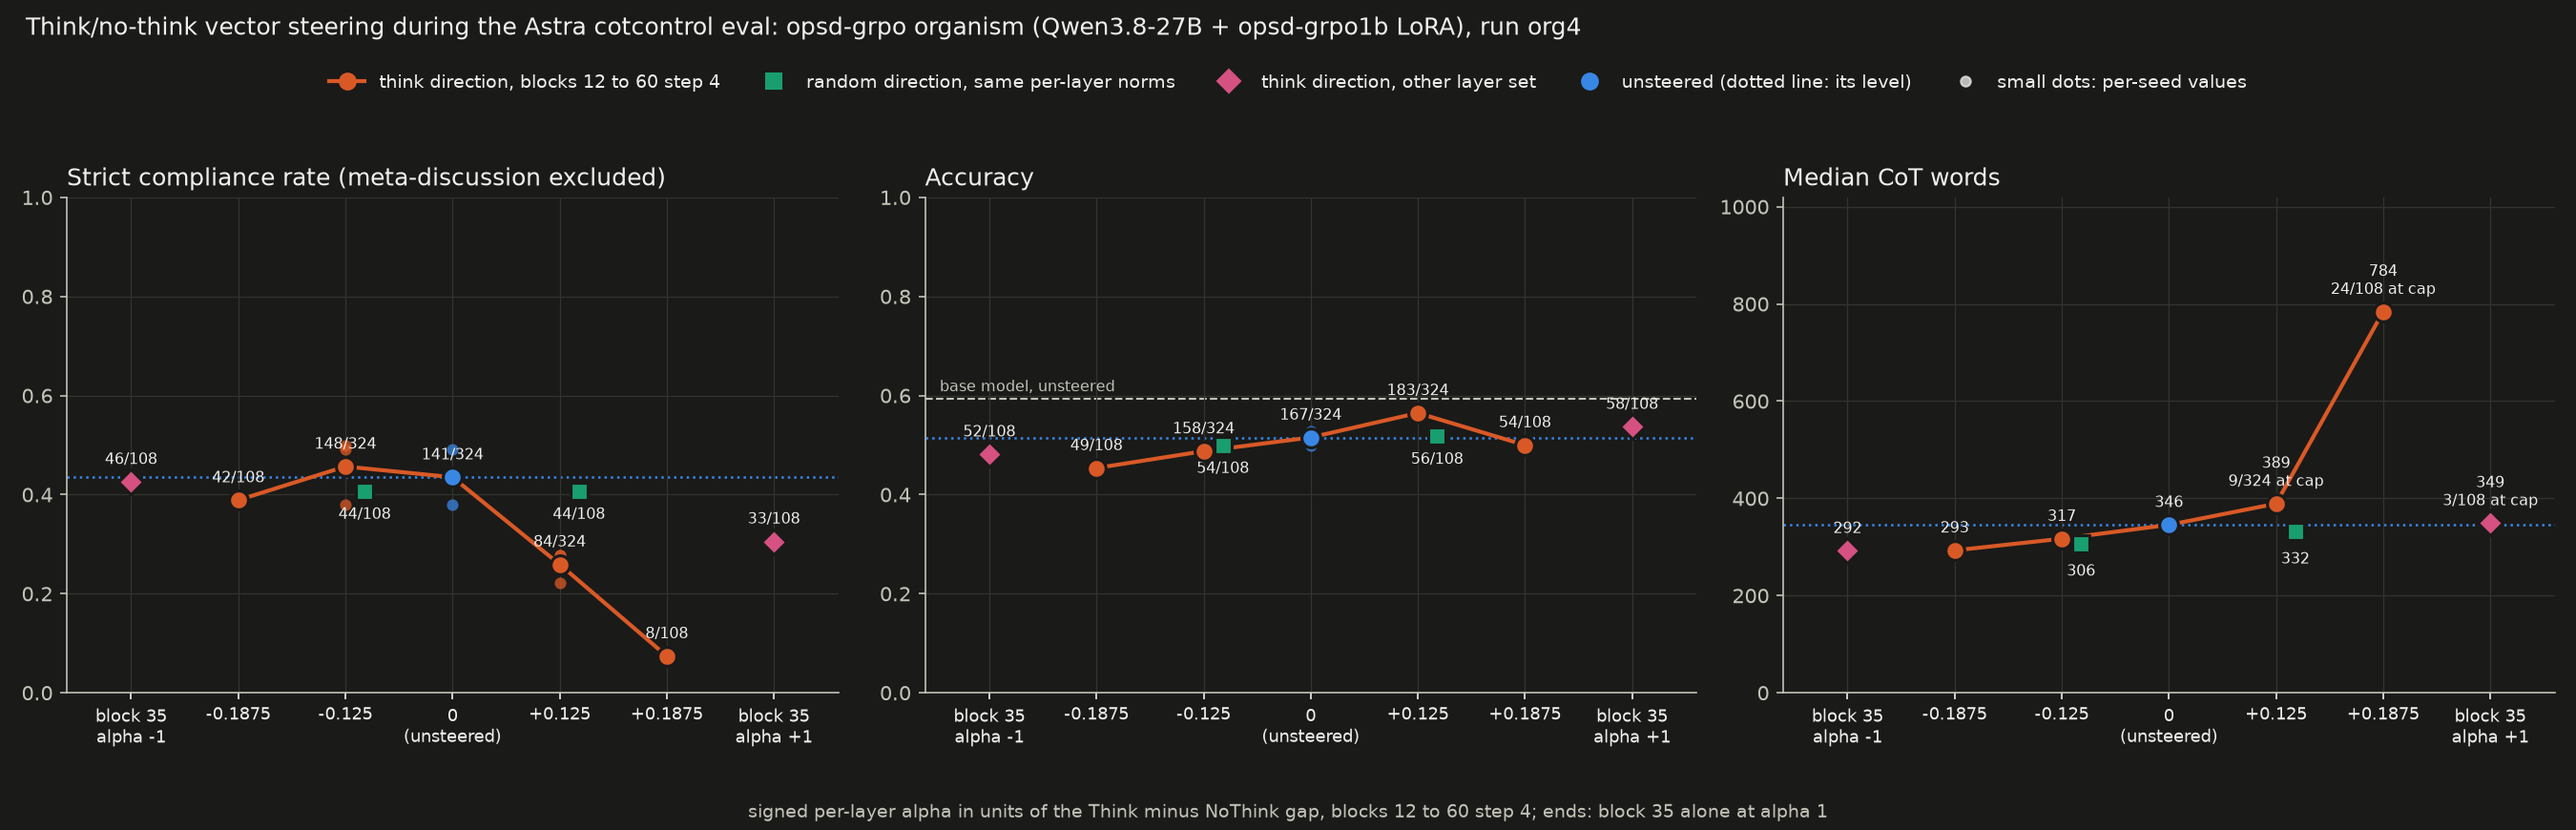
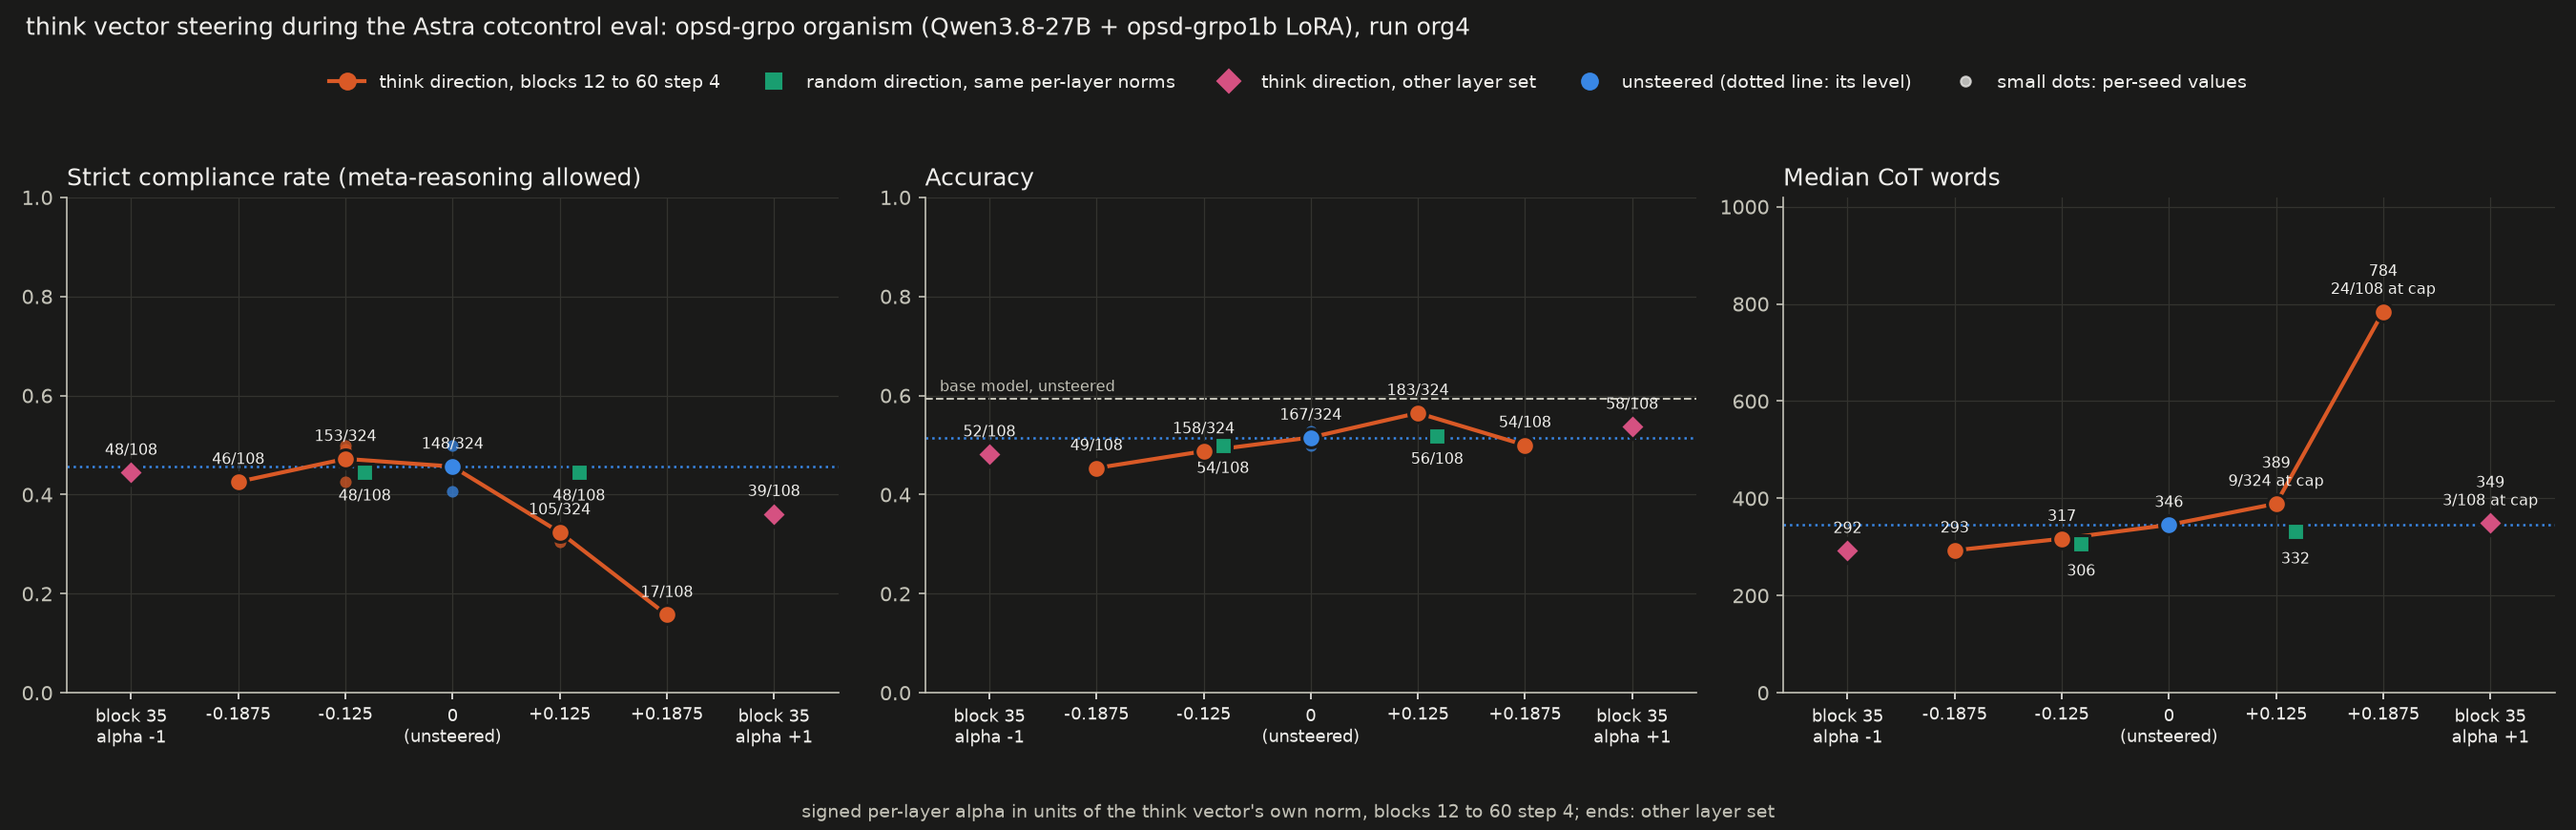
cot-control/thinkvec: length confound analysis (strict vs CoT length on unsteered organism rows, length-adjusted rates per condition); charts with meta-reasoning allowed

diff --git a/cot-control/thinkvec/length_adjust.py b/cot-control/thinkvec/length_adjust.py
@@ -1,0 +1,180 @@
+"""Length confound: how strict compliance depends on CoT length in the organism's own unsteered completions, and each steered
+condition's strict rate with the part predicted by its length shift removed.
+
+    python length_adjust.py RUN_DIR OUT_PNG
+
+Model: logistic regression of the reference grader's strict pass (meta-reasoning allowed) on log2(CoT words + 1) with a
+constraint intercept, fit on the unsteered rows only (all seeds). For a condition c, predicted_c = mean over its rows of
+P(pass | constraint, its CoT length); length-adjusted_c = observed_c - (predicted_c - predicted_unsteered). Writes
+RUN_DIR/length_adjust.json. Also prints the base model's partial-compliance vs length correlation (results/thinkvec/main).
+"""
+from __future__ import annotations
+
+import json
+import re
+import sys
+from pathlib import Path
+
+import matplotlib
+import matplotlib.pyplot as plt
+import numpy as np
+import pandas as pd
+from scipy.optimize import minimize
+
+matplotlib.use("Agg")
+R = Path(__file__).resolve().parent.parent / "results/thinkvec"
+sys.path.insert(0, str(Path(__file__).resolve().parent.parent / "grading"))
+sys.path.insert(0, str(Path(__file__).resolve().parent.parent / "rl"))
+from grpo import compliance  # noqa: E402
+
+
+def partial(row):
+    ga, text = row["grader_args"], row["reasoning"] or ""
+    if row["constraint"] == "ignore_question":
+        return None
+    if not text.strip():
+        return 0.0
+    return compliance(row["constraint"], text, {"words": ga.get("keywords"), "sentence": ga.get("target_sentence"), "word": ga.get("target_word")})[0]
+run, out = Path(sys.argv[1]), Path(sys.argv[2])
+
+
+def load(run_dir):
+    rec = pd.read_csv(run_dir / "analysis/records.csv")
+    rec["seed"] = rec.condition.str.extract(r"_s(\d+)$")[0].fillna("0").astype(int)
+    gens = {}
+    for f in (run_dir / "generations").glob("*/astra.jsonl"):
+        for line in open(f):
+            r = json.loads(line)
+            gens[(r["condition"], r["key"])] = r
+    rec["cot_words"] = [len((gens[(c, k)]["reasoning"] or "").split()) for c, k in zip(rec.condition, rec.key)]
+    rec["condition"] = rec.condition.str.replace(r"_s\d+$", "", regex=True)
+    rec["strict"] = rec.strict.fillna(False).astype(bool)
+    rec["correct"] = rec.correct.fillna(False).astype(bool)
+    rec["loglen"] = np.log2(rec.cot_words + 1)
+    return rec
+
+
+rec = load(run)
+base = next(c for c in rec.condition.unique() if c.endswith("unsteered"))
+cons = sorted(rec.constraint.unique())
+uns = rec[rec.condition == base]
+
+
+def design(df):
+    X = np.zeros((len(df), len(cons) + 1))
+    for j, c in enumerate(cons):
+        X[(df.constraint == c).values, j] = 1
+    X[:, -1] = df.loglen.values
+    return X
+
+
+def fit(df, y):
+    X = design(df)
+    def nll(w):
+        z = X @ w
+        return np.sum(np.logaddexp(0, -z) * y + np.logaddexp(0, z) * (1 - y)) + 0.01 * np.sum(w[:-1] ** 2)
+    return minimize(nll, np.zeros(X.shape[1]), method="L-BFGS-B").x
+
+
+w = fit(uns, uns.strict.values.astype(float))
+slope = w[-1]
+p = lambda df: 1 / (1 + np.exp(-(design(df) @ w)))
+# per-constraint slopes (separate fits on the unsteered rows, where both outcomes occur)
+per_c = {}
+for c in cons:
+    d = uns[uns.constraint == c]
+    if 0 < d.strict.sum() < len(d):
+        wc = minimize(lambda v: np.sum(np.logaddexp(0, -(v[0] + v[1] * d.loglen.values)) * d.strict.values + np.logaddexp(0, v[0] + v[1] * d.loglen.values) * (1 - d.strict.values)) + 0.01 * v[1] ** 2,
+                      np.zeros(2), method="L-BFGS-B").x
+        per_c[c] = {"odds_ratio_per_doubling": float(np.exp(wc[1])), "n_pass": int(d.strict.sum()), "n": len(d), "median_cot_words": float(d.cot_words.median())}
+pred_uns = p(uns).mean()
+rows = []
+for c, g in rec.groupby("condition"):
+    obs = g.strict.mean()
+    pred = p(g).mean()
+    rows.append({"condition": c, "n": len(g), "observed": obs, "predicted_from_length": pred, "length_adjusted": obs - (pred - pred_uns),
+                 "median_cot_words": float(g.cot_words.median()), "strict": int(g.strict.sum())})
+tab = pd.DataFrame(rows).set_index("condition")
+res = {"shared_slope_odds_ratio_per_doubling_of_cot_words": float(np.exp(slope)), "unsteered_rows": len(uns),
+       "per_constraint": per_c, "conditions": tab.to_dict(orient="index"),
+       "note": "logistic fit on the organism's unsteered rows: strict ~ constraint + log2(cot_words + 1); adjusted = observed - (length-predicted - unsteered-predicted)"}
+
+# base model: partial compliance vs length (its strict is 0 everywhere)
+bm = pd.read_csv(R / "main/analysis/records.csv")
+bgens = {}
+for f in (R / "main/generations").glob("*/astra.jsonl"):
+    for line in open(f):
+        r = json.loads(line)
+        bgens[(r["condition"], r["key"])] = r
+bm["cot_words"] = [len((bgens[(c, k)]["reasoning"] or "").split()) for c, k in zip(bm.condition, bm.key)]
+bm["partial"] = [partial(bgens[(c, k)]) for c, k in zip(bm.condition, bm.key)]
+bu = bm[bm.partial.notna()]  # all three base conditions (steering only changes length there), 288 rows
+sp = {c: float(pd.Series(d.partial.values).corr(pd.Series(np.log2(d.cot_words.values + 1)), method="spearman")) for c, d in bu.groupby("constraint")}
+res["base_model"] = {"strict": int(bm.strict.fillna(False).astype(bool).sum()), "n": len(bm), "n_with_partial": len(bu),
+                     "spearman_partial_vs_log_cot_words_pooled": float(pd.Series(bu.partial.values).corr(pd.Series(np.log2(bu.cot_words.values + 1)), method="spearman")),
+                     "spearman_partial_vs_log_cot_words_per_constraint": sp}
+(run / "length_adjust.json").write_text(json.dumps(res, indent=1))
+pd.set_option("display.width", 200)
+print(f"shared slope: odds ratio per doubling of CoT words = {np.exp(slope):.2f} (fit on {len(uns)} unsteered organism rows)")
+print({c: round(v["odds_ratio_per_doubling"], 2) for c, v in per_c.items()})
+pd.set_option("display.max_columns", None)
+print(tab.round(3).to_string())
+print("base model (all 3 conditions, 324 rows):", {k: (round(v, 3) if isinstance(v, float) else v) for k, v in res["base_model"].items() if k != "spearman_partial_vs_log_cot_words_per_constraint"})
+print("  per constraint:", {k: round(v, 2) for k, v in sp.items()})
+
+SURFACE, TEXT, MUTED, GRID = "#1a1a19", "#f0efec", "#c3c2b7", "#33332f"
+C_OBS, C_ADJ, C_PRED, C_REF = "#d95926", "#3987e5", "#c3c2b7", "#199e70"
+plt.rcParams.update({"figure.facecolor": SURFACE, "axes.facecolor": SURFACE, "axes.edgecolor": MUTED, "axes.labelcolor": TEXT, "xtick.color": TEXT,
+                     "ytick.color": MUTED, "text.color": TEXT, "axes.grid": True, "grid.color": GRID, "grid.linewidth": 0.6,
+                     "axes.spines.top": False, "axes.spines.right": False, "font.size": 10})
+fig, axes = plt.subplots(1, 2, figsize=(17, 6), gridspec_kw={"width_ratios": [1, 1.6]})
+ax = axes[0]
+bins = np.quantile(uns.loglen, np.linspace(0, 1, 9))
+idx = np.clip(np.digitize(uns.loglen, bins[1:-1]), 0, 7)
+for b in range(8):
+    d = uns[idx == b]
+    ax.scatter([2 ** d.loglen.mean()], [d.strict.mean()], s=30 + 3 * len(d), color=C_OBS, zorder=3, edgecolors=SURFACE)
+    ax.annotate(f"{int(d.strict.sum())}/{len(d)}", (2 ** d.loglen.mean(), d.strict.mean()), textcoords="offset points", xytext=(0, 10), ha="center", fontsize=7.5)
+xs = np.linspace(uns.loglen.min(), uns.loglen.max(), 100)
+mix = uns.constraint.value_counts(normalize=True)
+curve = sum(mix[c] / (1 + np.exp(-(w[cons.index(c)] + slope * xs))) for c in cons)
+ax.plot(2 ** xs, curve, color=C_ADJ, linewidth=2)
+ax.set_xscale("log", base=2)
+ax.set_xlabel("CoT words (log scale)"); ax.set_ylabel("strict pass rate (meta-reasoning allowed)")
+ax.set_ylim(0, 1)
+ax.set_title(f"Organism unsteered, {len(uns)} rows: pass rate by CoT-length octile\nfit: odds x{np.exp(slope):.2f} per doubling of length (constraint intercepts)", loc="left", fontsize=10)
+ax = axes[1]
+def parse(c):
+    m = re.fullmatch(r"(?:org_)?([a-z_]+?)_(L[\d-]+(?:s\d+)?)_(p|m)([\d.]+)", c)
+    return None if m is None else (m[1], m[2], (1 if m[3] == "p" else -1) * float(m[4]))
+parsed = {c: parse(c) for c in tab.index if c != base}
+main_tag = max({p[1] for p in parsed.values()}, key=lambda t: sum(p[1] == t for p in parsed.values()))
+alphas = sorted({p[2] for p in parsed.values() if p[1] == main_tag} | {0.0})
+others = sorted({(p[1], p[2]) for p in parsed.values() if p[1] != main_tag})
+cats = [o for o in others if o[1] < 0] + alphas + [o for o in others if o[1] > 0]
+xpos = {cat: i for i, cat in enumerate(cats)}
+x_of = lambda c: xpos[0.0] if c == base else (xpos[parsed[c][2]] if parsed[c][1] == main_tag else xpos[(parsed[c][1], parsed[c][2])])
+for c in tab.index:
+    is_rand = "rand" in c
+    dx = 0.18 if is_rand else 0
+    mk = "s" if is_rand else ("D" if c != base and parsed[c][1] != main_tag else "o")
+    x = x_of(c) + dx
+    ax.plot([x, x], [tab.loc[c, "observed"], tab.loc[c, "length_adjusted"]], color=MUTED, linewidth=1, zorder=1)
+    ax.scatter([x], [tab.loc[c, "predicted_from_length"]], marker=mk, s=70, facecolors="none", edgecolors=C_PRED, linewidths=1.5, zorder=2)
+    ax.scatter([x], [tab.loc[c, "observed"]], marker=mk, s=80, color=C_OBS, zorder=3, edgecolors=SURFACE)
+    ax.scatter([x], [tab.loc[c, "length_adjusted"]], marker=mk, s=80, color=C_ADJ, zorder=4, edgecolors=SURFACE)
+    ax.annotate(f"{tab.loc[c, 'length_adjusted']:.2f}", (x, tab.loc[c, "length_adjusted"]), textcoords="offset points", xytext=(10, 0), ha="left", va="center", fontsize=7.5, color=C_ADJ)
+ax.axhline(tab.loc[base, "observed"], color=C_REF, linestyle=":", linewidth=1.2)
+ticks = [f"{t.replace('L', 'block ')}\nalpha {a:+g}" if isinstance(cat, tuple) else ("0\n(unsteered)" if a == 0 else f"{a:+g}") for cat in cats for (t, a) in [cat if isinstance(cat, tuple) else (None, cat)]]
+ax.set_xticks(range(len(cats)), ticks, fontsize=8.5); ax.set_xlim(-0.6, len(cats) - 0.4); ax.set_ylim(0, 1)
+ax.set_title("Strict compliance per condition: observed, predicted from its CoT lengths alone, and length-adjusted", loc="left", fontsize=10)
+handles = [plt.Line2D([], [], color=C_OBS, marker="o", markersize=8, linewidth=0, label="observed"),
+           plt.Line2D([], [], color=C_PRED, marker="o", markersize=8, linewidth=0, markerfacecolor="none", label="predicted from length alone (unsteered fit)"),
+           plt.Line2D([], [], color=C_ADJ, marker="o", markersize=8, linewidth=0, label="length-adjusted = observed - (predicted - unsteered predicted)"),
+           plt.Line2D([], [], color=C_REF, linestyle=":", label="unsteered observed")]
+ax.legend(handles=handles, loc="lower left", frameon=False, fontsize=8.5, labelcolor=TEXT)
+vec_name = next(p[0] for p in parsed.values() if not p[0].startswith("rand"))
+fig.suptitle(f"Length confound in the organism steering results ({vec_name} vector, run {run.name}); circles = main layer set, squares = random direction, diamonds = other layer set", color=TEXT, x=0.01, ha="left", fontsize=11)
+fig.tight_layout(rect=(0, 0, 1, 0.93))
+fig.savefig(out, dpi=150, facecolor=SURFACE)
+print(out)

diff --git a/cot-control/thinkvec/README.md b/cot-control/thinkvec/README.md
@@ -173,3 +173,16 @@ decode inputs steered when no think block closes within 50 tokens, 0/240 when th
 Pilot `results/thinkvec/orgpilot_cotout` (9 items, 6k cap, blocks 12..60, alpha in units of |cotout|): unsteered 14.3k
 tokens / 1 truncated; +0.2 12.8k / 1; -0.2 18.5k / 1; +0.4 33.2k / 5 (long coherent rambling); -0.4 15.4k / 1 with wrong
 answers appearing; +0.8 54.0k / 9 (degenerate repetition); -0.8 5.3k / 0 with 6/9 unclosed think blocks of a few tokens.
+
+### Length confound (org4)
+
+`length_adjust.py`: logistic regression of the strict pass (meta-reasoning allowed) on log2(CoT words + 1) with constraint
+intercepts, fit on the organism's 324 unsteered rows: odds x0.62 per doubling of CoT words (per constraint, odds ratio per
+doubling: multiple_word_suppression 0.13, meow 0.17, end_of_sentence 0.30, lowercase 0.48, uppercase 0.61, repeat_sentences
+0.63, word_suppression 0.68, alternating_case 1.1, ignore_question 0.86). Observed / predicted-from-length / length-adjusted
+strict rate per condition: unsteered 0.457 / 0.455 / 0.457; think +0.125 0.324 / 0.446 / 0.333; think -0.125 0.472 / 0.470 /
+0.457; think +0.1875 0.157 / 0.382 / 0.231; think -0.1875 0.426 / 0.489 / 0.392; random +-0.125 0.444 / 0.46 / 0.44; block 35
++1 0.361 / 0.453 / 0.362; block 35 -1 0.444 / 0.493 / 0.406 (`org4/length_adjust.json`, `chart_length_adjusted.png`). The base
+model has 3/324 strict passes over its three conditions, so no strict-vs-length relation can be fit on it; its partial
+compliance vs log CoT words has Spearman -0.16 pooled (-0.79 word_suppression, -0.81 end_of_sentence, -0.57 meow, -0.56
+multiple_word_suppression, -0.36 uppercase, +0.56 lowercase, -0.08 alternating_case, +0.07 repeat_sentences).
